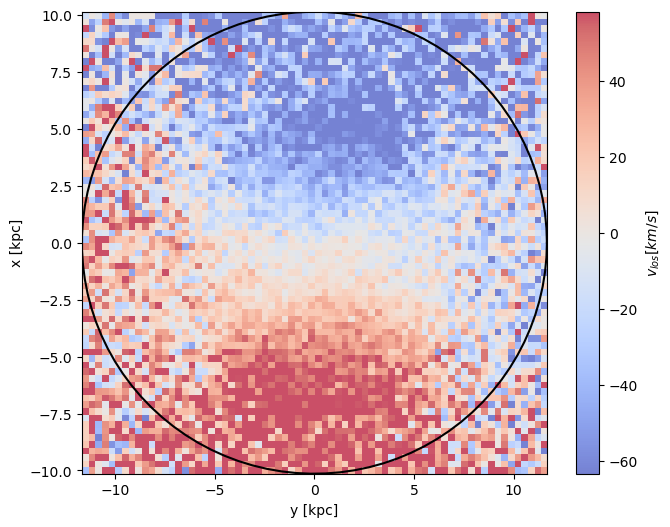
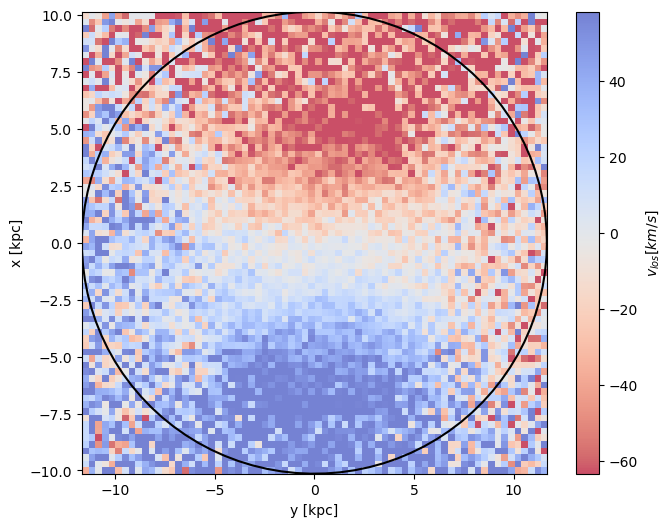
fixed new colormap

diff --git a/E1-mergers/plot_galaxies.py b/E1-mergers/plot_galaxies.py
@@ -6,7 +6,7 @@ frames = np.linspace(0,51,52)
 #frames = np.linspace(0,0,1)
 
 for i in range(len(frames)):
-    filename = f'snaps_impact/impact_{int(frames[i]):03}'
+    filename = f'snaps_same/same_{int(frames[i]):03}'
     #filename = 'galaxies_impact.ic'
     ptype = [0,2,3]
     
@@ -23,7 +23,7 @@ for i in range(len(frames)):
     vel = vel[sort_ind]
 
     fig= plt.figure(figsize = (25,8), dpi = 250)
-    plt.scatter(pos_dm[:,1], pos_dm[:,2], marker = '.',s = .5, c = 'gray')
+    plt.scatter(pos_dm[:,1], pos_dm[:,2], marker = '.',s = .5, c = 'black')
     plt.scatter(pos[:,1], pos[:,2], marker = '.', c = -vel[:,0], s = .5, cmap = 'coolwarm_r', vmin = -200, vmax = 200)
     
     #plt.scatter(pos_dm[:,1], pos_dm[:,0], marker = '.',s = .5, c = 'gray')
@@ -42,5 +42,5 @@ for i in range(len(frames)):
     
     plt.title(f'merger at time = {time:.3f}')
     
-    plt.savefig(f'galaxies_impact/galaxies_impact_{int(frames[i]):03}.png', format = 'png', bbox_inches = 'tight')
+    plt.savefig(f'galaxies_same/galaxies_same_{int(frames[i]):03}.png', format = 'png', bbox_inches = 'tight')
     #plt.show()

diff --git a/E1-mergers/analysis_galaxies.py b/E1-mergers/analysis_galaxies.py
@@ -86,7 +86,7 @@ class Merger():
         self.vel_bar = self.vel_bar[sort_ind]
         
         fig= plt.figure(figsize = figsize1, dpi = 120) #figsize = (25,5)
-        plt.scatter(self.pos_dm[:,1], self.pos_dm[:,2], marker = '.',s = .5, c = 'gray')
+        plt.scatter(self.pos_dm[:,1], self.pos_dm[:,2], marker = '.',s = .5, c = 'black')
         plt.scatter(self.pos_bar[:,1], self.pos_bar[:,2], marker = '.', c = -self.vel_bar[:,0], s = .5, cmap = colormap, vmin = -200, vmax = 200)
     
         cbar = plt.colorbar()
